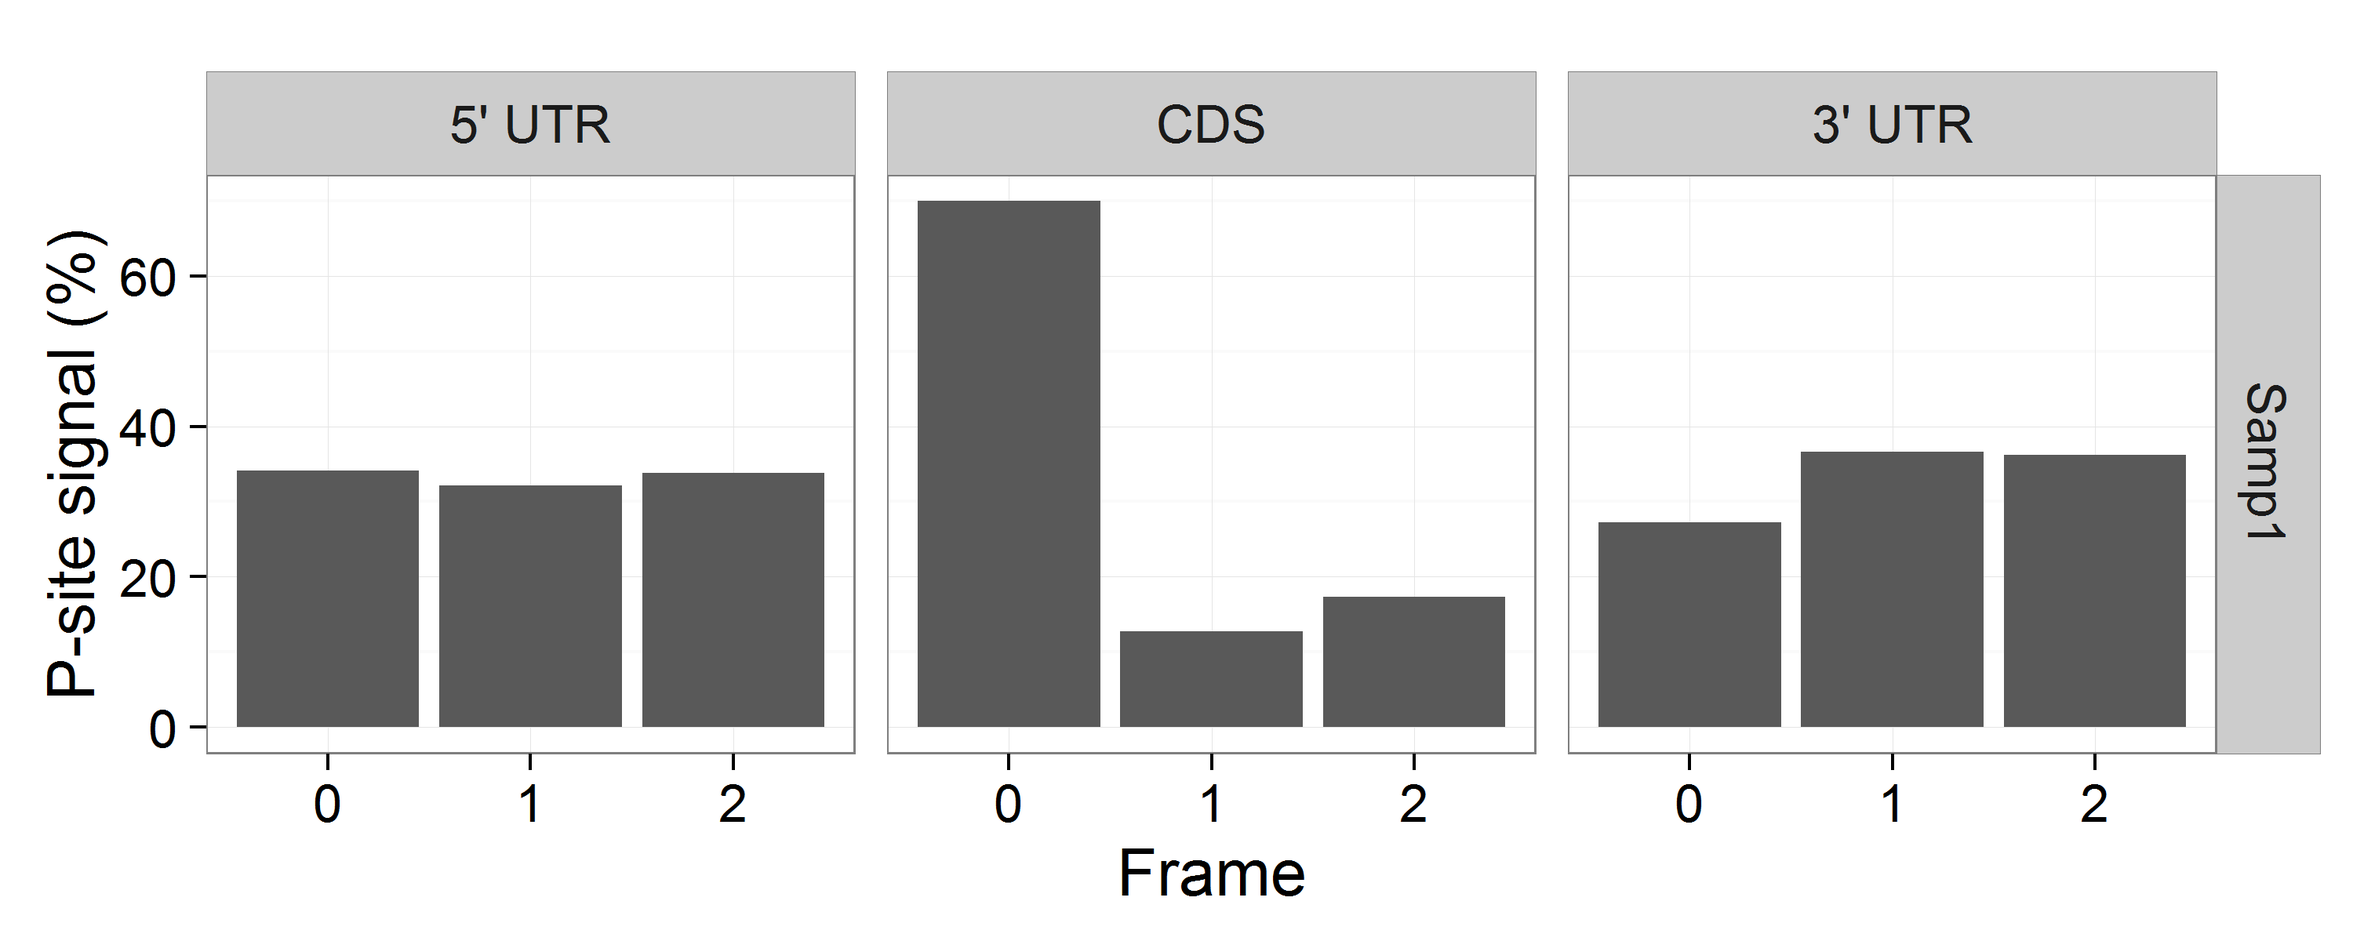
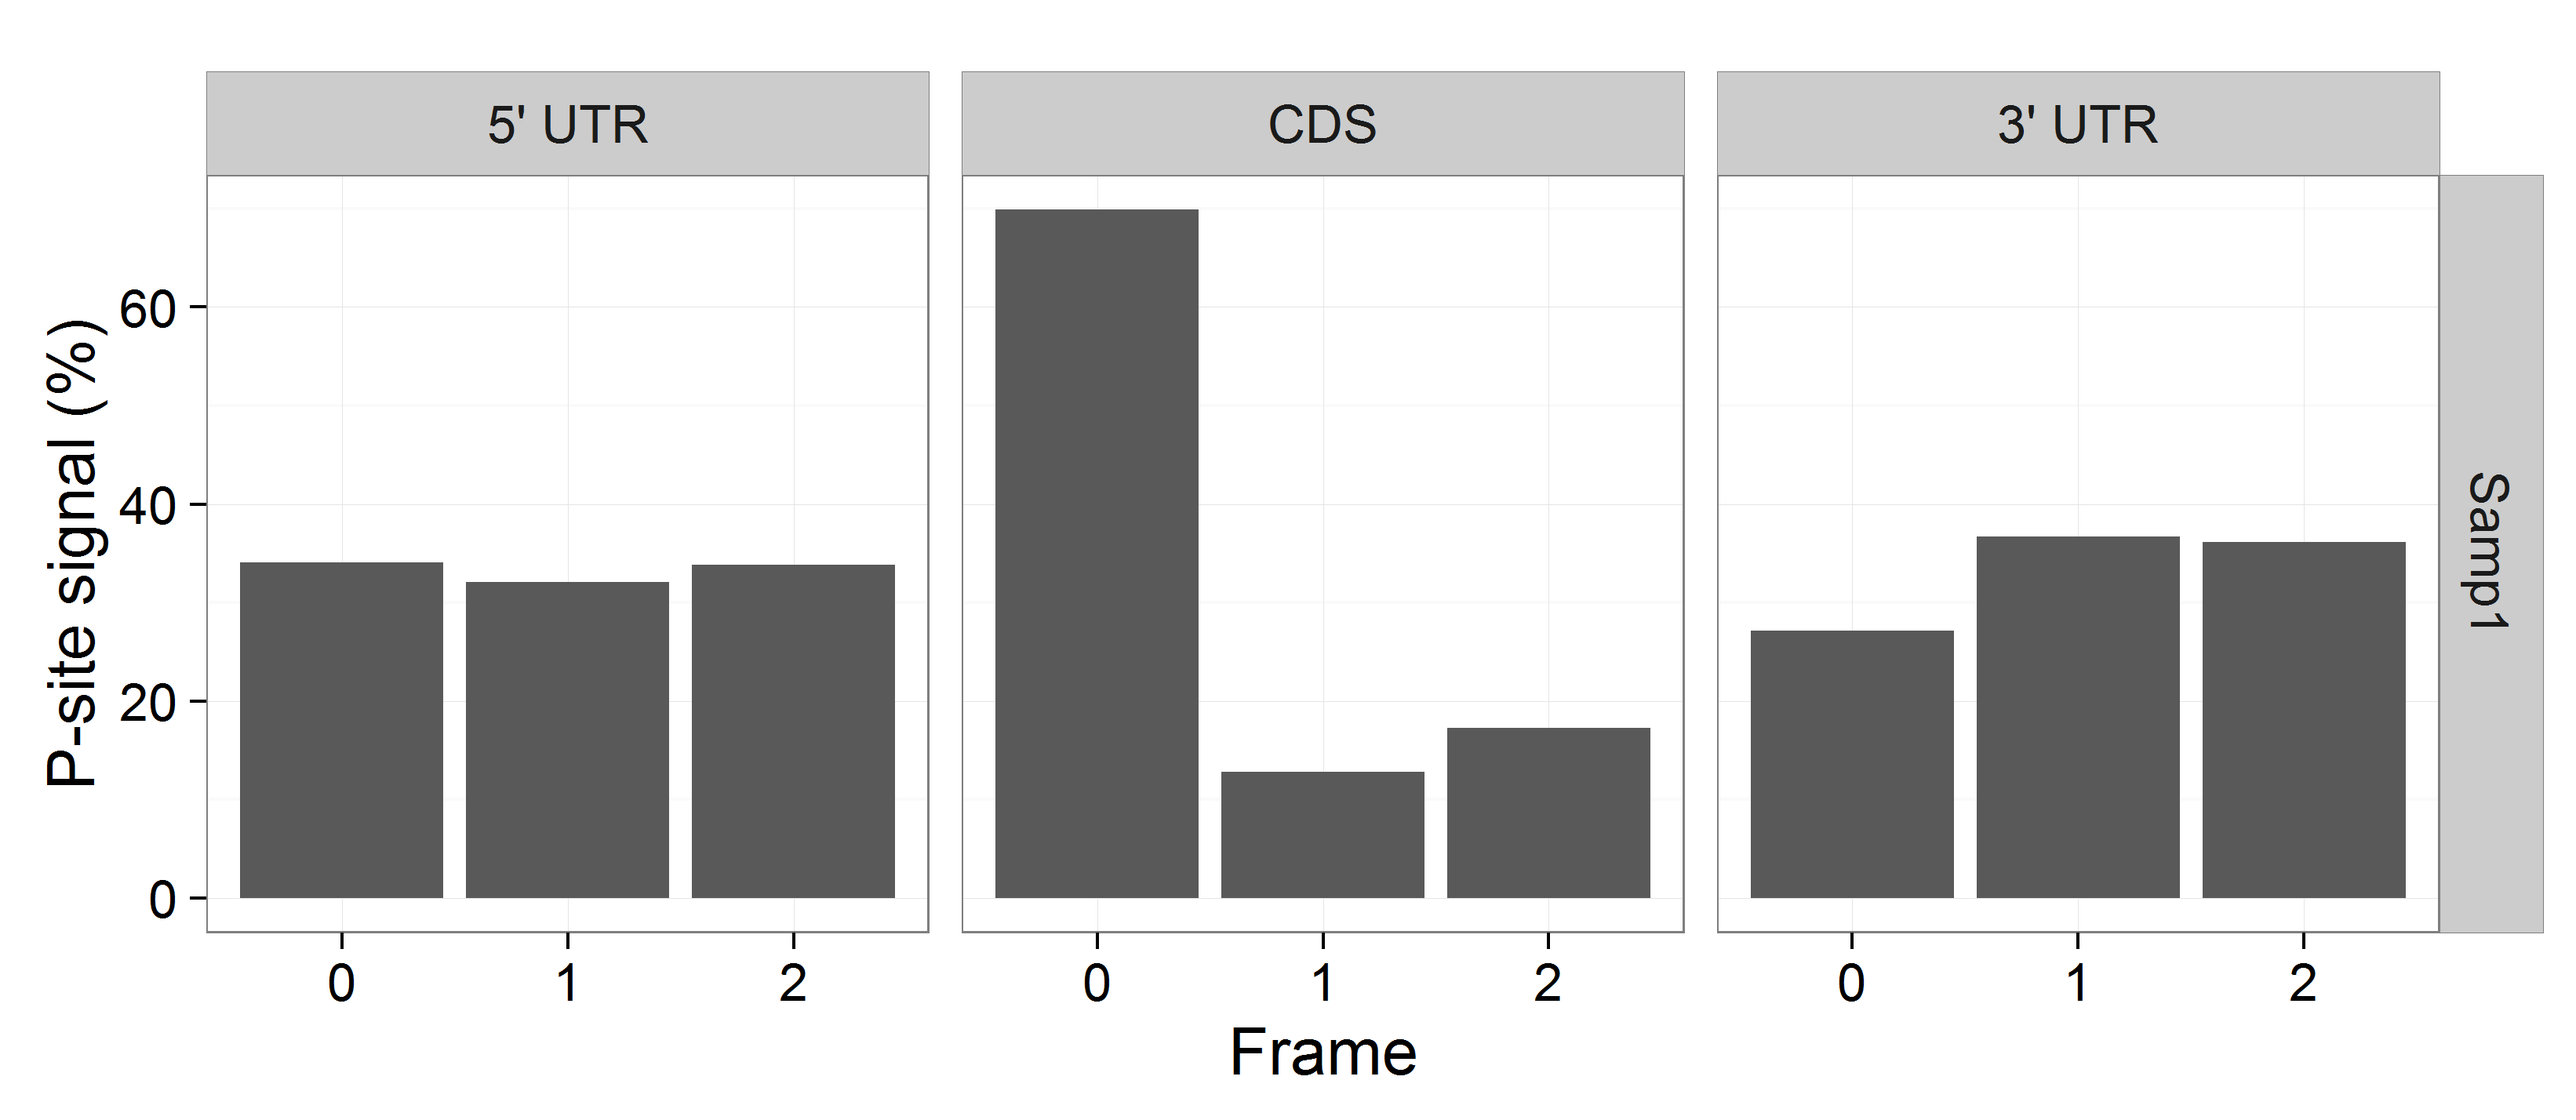
update readme

diff --git a/README.md b/README.md
@@ -81,7 +81,7 @@ To run `bamtobed`, only the path to the BAM file(s) is required, possibly couple
     example_length_dist_zoom <- rlength_distr(reads_list, sample="Samp1", cl=99)
     example_length_dist_zoom[["plot"]]
 <p align="center">
-<img src="https://github.com/LabTranslationalArchitectomics/riboWaltz/blob/master/vignettes/example_length_dist_zoom.png" width="325" />
+<img src="https://github.com/LabTranslationalArchitectomics/riboWaltz/blob/master/vignettes/example_length_dist_zoom.png" width="300" />
 </p>
 
   The second plot consists of 4 metaheatmaps that show the abundance of the 3' the and 5' end of the reads mapping around the start and the stop codons, stratified by their length. Also in this case it is possible to restrict the output to a subset of read lengths specified by a confidence level *cl*.
@@ -106,8 +106,8 @@ To run `bamtobed`, only the path to the BAM file(s) is required, possibly couple
   For every read length of each sample a plot of the ribosome occupancy profile for the 5' and the 3’ extremity around the start codon is produced. The optimal offsets (dotted black line) as well as the inferred offsets before (dashed vertical lines) after the correction (continuous vertical lines) are reported. The regions used for their computation (depending on the *flanking* option) are shaded. Here two examples for reads of 28 and 31 nucleotides:
 
 <p align="center">
-<img src="https://github.com/LabTranslationalArchitectomics/riboWaltz/blob/master/vignettes/meta_psite_length28.png" width="800" />
-<img src="https://github.com/LabTranslationalArchitectomics/riboWaltz/blob/master/vignettes/meta_psite_length31.png" width="800" />
+<img src="https://github.com/LabTranslationalArchitectomics/riboWaltz/blob/master/vignettes/meta_psite_length28.png" width="750" />
+<img src="https://github.com/LabTranslationalArchitectomics/riboWaltz/blob/master/vignettes/meta_psite_length31.png" width="750" />
 </p>
 
   Now the initial dataset must be updated with the new information coming from the identification of the P-site offset such as the localization of the P-site along the transcript and its position with respect to the start and stop codons. The associated region of the transcript (5' UTR, CDS, 3' UTR) and, optionally, the sequence of the triplet covered by the P-site are also added for facilitating further analyses.
@@ -120,13 +120,13 @@ To run `bamtobed`, only the path to the BAM file(s) is required, possibly couple
                                                     region="all", cl=90)
     example_frames_stratified[["plot"]]
 <p align="center">
-<img src="https://github.com/LabTranslationalArchitectomics/riboWaltz/blob/master/vignettes/example_frames_stratified.png" width="500" />
+<img src="https://github.com/LabTranslationalArchitectomics/riboWaltz/blob/master/vignettes/example_frames_stratified.png" width="550" />
 </p>
 
     example_frames <- frame_psite(reads_psite_list, sample="Samp1", region="all")
     example_frames[["plot"]]
 <p align="center">
-<img src="https://github.com/LabTranslationalArchitectomics/riboWaltz/blob/master/vignettes/example_frames.png" width="500" />
+<img src="https://github.com/LabTranslationalArchitectomics/riboWaltz/blob/master/vignettes/example_frames.png" width="550" />
 </p>
 
   In both cases it is possible to specified a set of samples of interest, a range of read lengths and to display the results for either all the three regions of the transcript or just one of them. Depending on this choices the box containing the plots are differently arranged, to optimise the organization and the visualization of the data.
